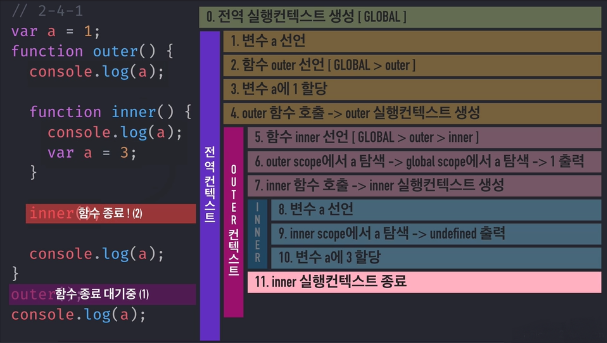
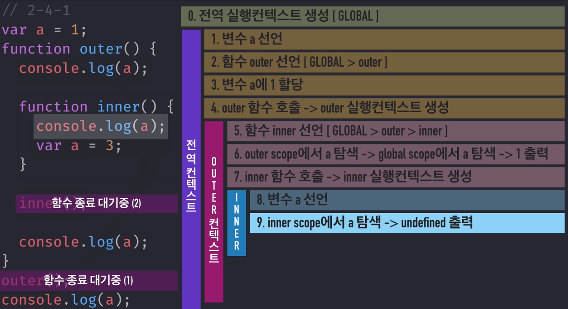
nested scope.....-_-

diff --git a/1_기초/chapter_08/ReadMe.md b/1_기초/chapter_08/ReadMe.md
@@ -76,8 +76,8 @@ console.log(changeName("Hello"));   // Hello-inner1-inner2
 var name = 'Chris';
 
 function showName(){
-  var name = '';  // 지역변수; showName() 에서만 접근가능
-  console.log(name); // 
+  var name = 'Mac';  // 지역변수; showName() 에서만 접근가능
+  console.log(name); // Mac 지역변수
 }
 console.log(name);   // chris 전역변수
 ```  
@@ -97,7 +97,7 @@ console.log(name); // Mac
 
   지역변수를 선언하지 않음으로 인한 문제발생
 ```javascript
-// 지역변수를 var키워드로 선언하지 않았을 경우, 그것은 전역-범위(global-scope)가 됩니다.
+// 지역변수를 var키워드로 선언하지 않았을 경우, 그것은 전역-범위(global-scope)가 된다.
 var name = "Michael Jackson";   
   
 function showCelebrityName() {
@@ -108,16 +108,16 @@ function showOrdinaryPersonName() {
      console.log(name);
 }
 showCelebrityName(); // Michael Jackson
-// name 은 지역변수가 아닙니다. 이것은 전역변수 name을 변경해 버립니다.  
+// name 은 지역변수가 아니다. 이것은 전역변수 name을 변경해 버린다.  
 
 showOrdinaryPersonName(); // Johnny Evers
-// 이제 전역변수 name은 Johny Evers입니다.   
+// 이제 전역변수 name은 Johny Evers이다.   
 
 showCelebrityName(); // Johnny Evers   
 
-// 해결책은 지역변수 선언시 var 키워드를 사용하는 것입니다. 
+// 해결책은 지역변수 선언시 var 키워드를 사용하는 것이다. 
 function showOrdinaryPersonName() {
-     var name = "Johnny Evers"; // 이제 name은 항상 지역변수이며, 전역변수를 덮어쓰지 않습니다.
+     var name = "Johnny Evers"; // 이제 name은 항상 지역변수이며, 전역변수를 덮어쓰지 않는다.
      console.log(name);
 }
 ```  
@@ -309,7 +309,7 @@ function sum ( a, b ) {  // 작성자 B
 }
 sum (3,4);    
 ```  
- 위의 sum이라는 항수가 **호이스팅**에 의해 위로 **끌어올려**질 것이며, **캐스캐이딩**의 원칙으로 나중에 호이스팅된 함수가 이전의 함수를 덮어버리게 되며, 작성자 A의 값은 사라지고 작성자 B의 값만 남을 것이다. 함수 선언문은 위에서 아래로 내려가며 읽어내려간다는 방식을 벗어나 가독성 면에서 매우 좋지 않다.  
+ 위의 sum이라는 함수가 **호이스팅**에 의해 위로 **끌어올려**질 것이며, **캐스캐이딩**의 원칙으로 나중에 호이스팅된 함수가 이전의 함수를 덮어버리게 되며, 작성자 A의 값은 사라지고 작성자 B의 값만 남을 것이다. 함수 선언문은 위에서 아래로 내려가며 읽어내려간다는 방식을 벗어나 가독성 면에서 매우 **좋지 않다.**  
    
      
        
@@ -338,12 +338,14 @@ function(){
 }
 ```  
 - 함수선언문을 이용하면 변수,함수를 찾아야하며 어디 있는지 정확히   
- 파악하는데 어려움이 있어, 함수선언문 보다 함수표현식 사용을 권장한다.
- - 안전하고 예측 가능하기 때문에
+ 파악하는데 어려움이 있어서 함수선언문 보다 함수표현식이 안전하고 예측 가능하기 때문에 사용을 권장한다.
 ***
 ## 4.함수스코프, 실행컨텍스트  
-  
-실행 컨텍스트에는 호이스팅, this 바인딩 등의 정보가 담긴다.  
+  ![contecxt_01](img/contecxt_01.PNG)
+스코프는 함수가 정의될때 결정된다.  
+실행컨텍스트는 함수가 실행될때 생성된다.  
+실행 컨텍스트에는 호이스팅이 이뤄진 후의 함수 본문내용, this 바인딩 등의 정보가 담긴다.  
+
   
 ```javascript
 //변수의 유효범위를 생각하며 아래의 코드실행을 예측해보시오.
@@ -363,22 +365,32 @@ outer();
 console.log(a);  //4번 결과:1
 ```
 
-![scope_01](img/1.PNG)  
-![scope_02](img/2.PNG)  
-![scope_03](img/3.PNG)  
-![scope_04](img/4.PNG)  
-![scope_05](img/5.PNG)  
-![scope_06](img/6.PNG)  
-![scope_07](img/7.PNG)  
-![scope_08](img/8.PNG)  
-![scope_09](img/9.PNG)  
-![scope_10](img/10.PNG)  
-![scope_11](img/11.PNG)  
-![scope_12](img/12.PNG)  
-![scope_13](img/13.PNG)  
-![scope_14](img/14.PNG)  
-![scope_15](img/15.PNG)  
-![scope_16](img/16.PNG)  
+![scope_01](img/scope_01.PNG)  
+우주같은 빈공간의 전역실행컨텍스트 생성(global), 전역컨텍스트 생성됨, 호이스팅과 this바인딩 등을 처리
+![scope_02](img/scope_02.PNG)  
+변수 a 선언
+![scope_03](img/scope_03.PNG)  
+함수 선언문이 전체를 호이스팅하면서 선언하면서 동시에 선언. 함수가 선언될때 스코프 결정. global > outer  
+스코프가 결정되어 outer 내부에서 선언된 변수의 유효범위는 outer 내부로 국한되고, outer 외부에서 선언된 변수는 outer 내부에서도 접근이 가능하다.
+![scope_04](img/scope_04.PNG)  
+변수에 1 할당
+![scope_05](img/scope_05.PNG)  
+outer 함수 호출, 함수가 호출될때 실행컨텍스트가 열림, 실행컨텍스트가 생성될때 this 바인딩과 호이스팅이 이뤄짐. 
+![scope_06](img/scope_06.PNG)  
+함수 inner 선언 global > outer > inner 스코프 생성.
+![scope_07](img/scope_07.PNG)  
+outer 스코프에서 a 탐색하지만 없기때문에 global 스코프에서 a를 재탐색 후 1출력
+![scope_08](img/scope_08.PNG)  
+![scope_09](img/scope_09.PNG)  
+![scope_10](img/scope_10.PNG)  
+![scope_11](img/scope_11.PNG)  
+![scope_12](img/scope_12.PNG)  
+![scope_13](img/scope_13.PNG)  
+![scope_14](img/scope_14.PNG)  
+![scope_15](img/scope_15.PNG)  
+![scope_16](img/scope_16.PNG)  
+![scope_17](img/scope_17.PNG)  
+![scope_18](img/scope_18.PNG)  
 ***
 ## 5.메서드
 객체란 것은 껍데기를 이루는 말이고 실제 객체를 완성하는 구성요소들은  **프로퍼티** 와 **메소드** 이다.  
@@ -436,3 +448,5 @@ prototype은 자바스크립트의 존재라고 할 수 있으며, 함수와 Cla
 
 출처 및 참고: [인프런_javaScriptFlow](https://www.inflearn.com/course-status-2/),    
 [JavaScript Variable Scope and Hoisting Explained](http://javascriptissexy.com/javascript-variable-scope-and-hoisting-explained/)
+
+
